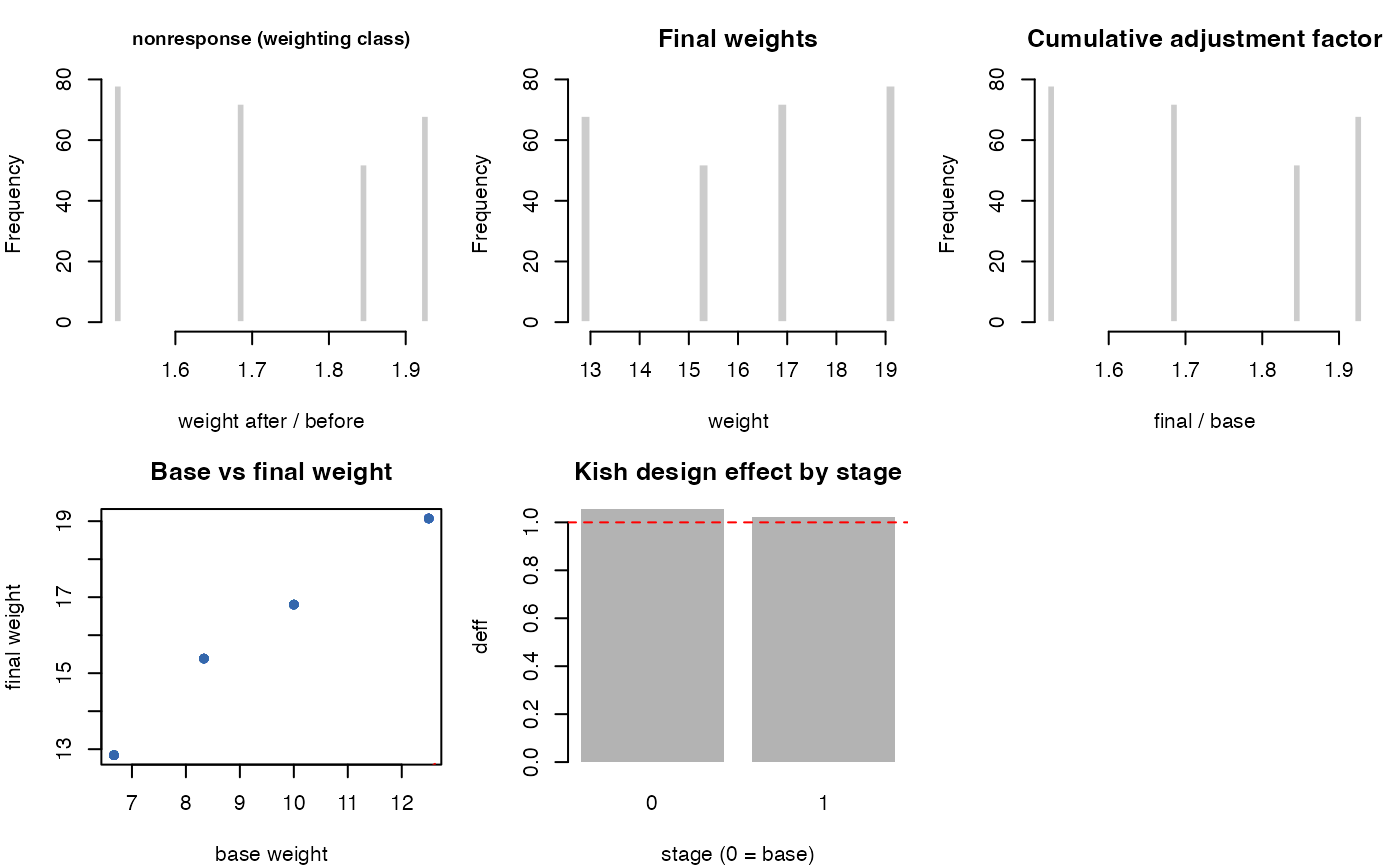
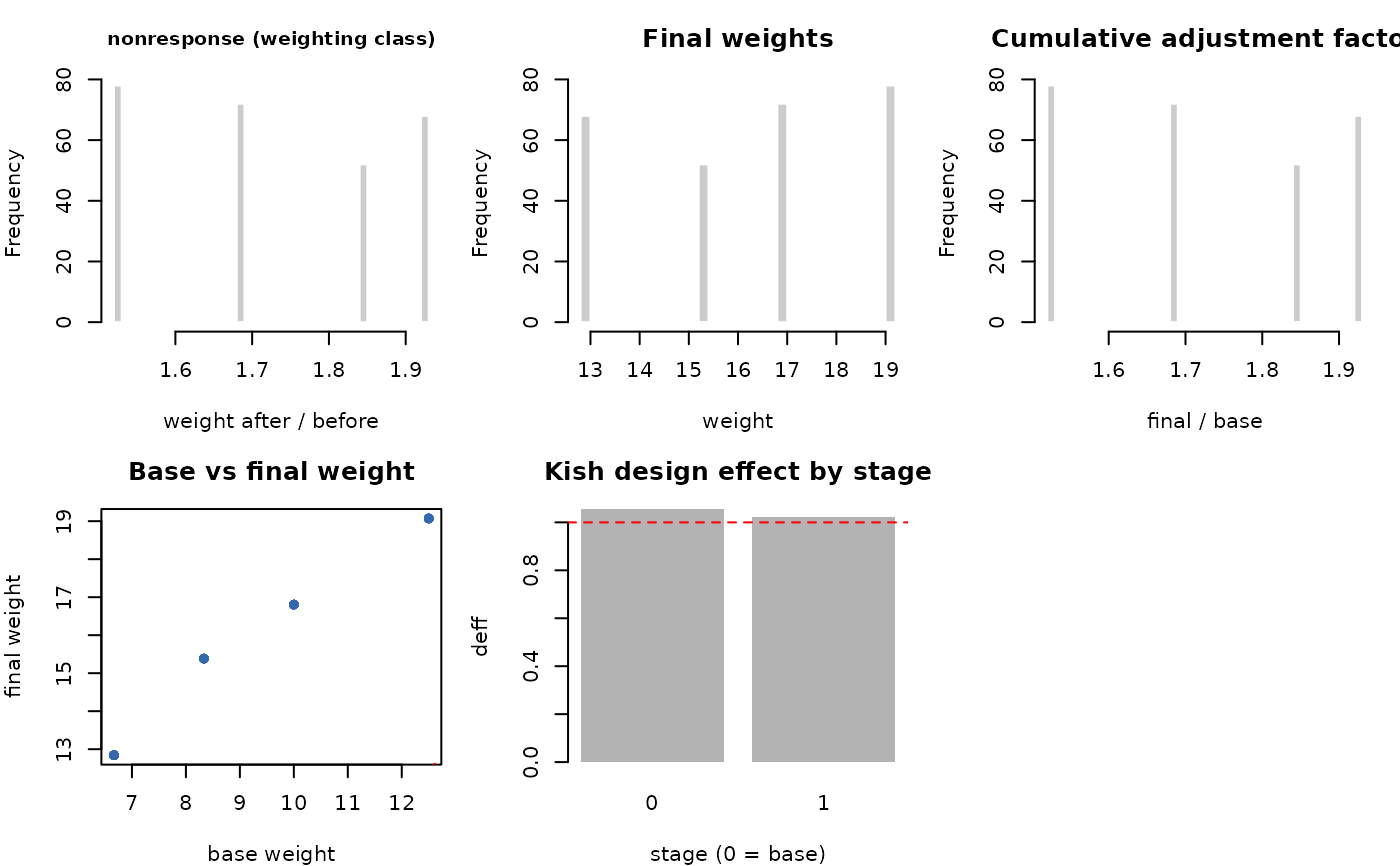
Deploying to gh-pages from @ jpferreira33/weightflow@0d763043653992a591d6867788d31cc4bb52c1d1 🚀

diff --git a/articles/variance-estimation.html b/articles/variance-estimation.html
@@ -1,5 +1,5 @@
 <!DOCTYPE html>
-<!-- Generated by pkgdown: do not edit by hand --><html lang="en">
+<!-- Generated by pkgdown: do not edit by hand --><html lang="en-US">
 <head>
 <meta http-equiv="Content-Type" content="text/html; charset=UTF-8">
 <meta charset="utf-8">
@@ -7,8 +7,8 @@
 <meta name="viewport" content="width=device-width, initial-scale=1, shrink-to-fit=no">
 <title>Variance estimation • weightflow</title>
 <script src="../deps/jquery-3.6.0/jquery-3.6.0.min.js"></script><meta name="viewport" content="width=device-width, initial-scale=1, shrink-to-fit=no">
-<link href="../deps/bootstrap-5.3.1/bootstrap.min.css" rel="stylesheet">
-<script src="../deps/bootstrap-5.3.1/bootstrap.bundle.min.js"></script><link href="../deps/font-awesome-6.5.2/css/all.min.css" rel="stylesheet">
+<link href="../deps/bootstrap-5.3.8/bootstrap.min.css" rel="stylesheet">
+<script src="../deps/bootstrap-5.3.8/bootstrap.bundle.min.js"></script><link href="../deps/font-awesome-6.5.2/css/all.min.css" rel="stylesheet">
 <link href="../deps/font-awesome-6.5.2/css/v4-shims.min.css" rel="stylesheet">
 <script src="../deps/headroom-0.11.0/headroom.min.js"></script><script src="../deps/headroom-0.11.0/jQuery.headroom.min.js"></script><script src="../deps/bootstrap-toc-1.0.1/bootstrap-toc.min.js"></script><script src="../deps/clipboard.js-2.0.11/clipboard.min.js"></script><script src="../deps/search-1.0.0/autocomplete.jquery.min.js"></script><script src="../deps/search-1.0.0/fuse.min.js"></script><script src="../deps/search-1.0.0/mark.min.js"></script><!-- pkgdown --><script src="../pkgdown.js"></script><meta property="og:title" content="Variance estimation">
 </head>
@@ -30,7 +30,7 @@
     <div id="navbar" class="collapse navbar-collapse ms-3">
       <ul class="navbar-nav me-auto">
 <li class="nav-item"><a class="nav-link" href="../reference/index.html">Reference</a></li>
-<li class="nav-item dropdown">
+<li class="active nav-item dropdown">
   <button class="nav-link dropdown-toggle" type="button" id="dropdown-articles" data-bs-toggle="dropdown" aria-expanded="false" aria-haspopup="true">Articles</button>
   <ul class="dropdown-menu" aria-labelledby="dropdown-articles">
 <li><a class="dropdown-item" href="../articles/variance-estimation.html">Variance estimation</a></li>
@@ -59,7 +59,7 @@
       <h1>Variance estimation</h1>
             
       
-      <small class="dont-index">Source: <a href="https://github.com/jpferreira33/weightflow/blob/HEAD/vignettes/variance-estimation.Rmd" class="external-link"><code>vignettes/variance-estimation.Rmd</code></a></small>
+      <small class="dont-index">Source: <a href="https://github.com/jpferreira33/weightflow/blob/master/vignettes/variance-estimation.Rmd" class="external-link"><code>vignettes/variance-estimation.Rmd</code></a></small>
       <div class="d-none name"><code>variance-estimation.Rmd</code></div>
     </div>
 

diff --git a/index.html b/index.html
@@ -1,5 +1,5 @@
 <!DOCTYPE html>
-<!-- Generated by pkgdown: do not edit by hand --><html lang="en">
+<!-- Generated by pkgdown: do not edit by hand --><html lang="en-US">
 <head>
 <meta http-equiv="Content-Type" content="text/html; charset=UTF-8">
 <meta charset="utf-8">
@@ -7,8 +7,8 @@
 <meta name="viewport" content="width=device-width, initial-scale=1, shrink-to-fit=no">
 <title>Declarative API for Staged Survey Weights • weightflow</title>
 <script src="deps/jquery-3.6.0/jquery-3.6.0.min.js"></script><meta name="viewport" content="width=device-width, initial-scale=1, shrink-to-fit=no">
-<link href="deps/bootstrap-5.3.1/bootstrap.min.css" rel="stylesheet">
-<script src="deps/bootstrap-5.3.1/bootstrap.bundle.min.js"></script><link href="deps/font-awesome-6.5.2/css/all.min.css" rel="stylesheet">
+<link href="deps/bootstrap-5.3.8/bootstrap.min.css" rel="stylesheet">
+<script src="deps/bootstrap-5.3.8/bootstrap.bundle.min.js"></script><link href="deps/font-awesome-6.5.2/css/all.min.css" rel="stylesheet">
 <link href="deps/font-awesome-6.5.2/css/v4-shims.min.css" rel="stylesheet">
 <script src="deps/headroom-0.11.0/headroom.min.js"></script><script src="deps/headroom-0.11.0/jQuery.headroom.min.js"></script><script src="deps/bootstrap-toc-1.0.1/bootstrap-toc.min.js"></script><script src="deps/clipboard.js-2.0.11/clipboard.min.js"></script><script src="deps/search-1.0.0/autocomplete.jquery.min.js"></script><script src="deps/search-1.0.0/fuse.min.js"></script><script src="deps/search-1.0.0/mark.min.js"></script><!-- pkgdown --><script src="pkgdown.js"></script><meta property="og:title" content="Declarative API for Staged Survey Weights">
 <meta name="description" content="Builds survey weights from design base weights by applying hierarchical adjustments (unknown eligibility, nonresponse and calibration) through a declarative, pipeable, tidymodels-style API. Variances are obtained with a bootstrap that resamples primary sampling units and re-applies the whole recipe on each replicate, so the replicate weights carry the variability of every adjustment; the weights also bridge to the survey and srvyr packages for design-based inference.">
@@ -64,7 +64,7 @@
 </h2>
 <div class="sourceCode" id="cb1"><pre class="downlit sourceCode r">
 <code class="sourceCode R"><span><span class="co"># install.packages("remotes")</span></span>
-<span><span class="fu">remotes</span><span class="fu">::</span><span class="fu"><a href="https://remotes.r-lib.org/reference/install_github.html" class="external-link">install_github</a></span><span class="op">(</span><span class="st">"jpferreira33/weightflow"</span><span class="op">)</span></span></code></pre></div>
+<span><span class="fu">remotes</span><span class="fu">::</span><span class="fu">install_github</span><span class="op">(</span><span class="st">"jpferreira33/weightflow"</span><span class="op">)</span></span></code></pre></div>
 </div>
 <div class="section level2">
 <h2 id="the-idea">The idea<a class="anchor" aria-label="anchor" href="#the-idea"></a>

diff --git a/404.html b/404.html
@@ -1,5 +1,5 @@
 <!DOCTYPE html>
-<!-- Generated by pkgdown: do not edit by hand --><html lang="en">
+<!-- Generated by pkgdown: do not edit by hand --><html lang="en-US">
 <head>
 <meta http-equiv="Content-Type" content="text/html; charset=UTF-8">
 <meta charset="utf-8">
@@ -7,8 +7,8 @@
 <meta name="viewport" content="width=device-width, initial-scale=1, shrink-to-fit=no">
 <title>Page not found (404) • weightflow</title>
 <script src="https://jpferreira33.github.io/weightflow/deps/jquery-3.6.0/jquery-3.6.0.min.js"></script><meta name="viewport" content="width=device-width, initial-scale=1, shrink-to-fit=no">
-<link href="https://jpferreira33.github.io/weightflow/deps/bootstrap-5.3.1/bootstrap.min.css" rel="stylesheet">
-<script src="https://jpferreira33.github.io/weightflow/deps/bootstrap-5.3.1/bootstrap.bundle.min.js"></script><link href="https://jpferreira33.github.io/weightflow/deps/font-awesome-6.5.2/css/all.min.css" rel="stylesheet">
+<link href="https://jpferreira33.github.io/weightflow/deps/bootstrap-5.3.8/bootstrap.min.css" rel="stylesheet">
+<script src="https://jpferreira33.github.io/weightflow/deps/bootstrap-5.3.8/bootstrap.bundle.min.js"></script><link href="https://jpferreira33.github.io/weightflow/deps/font-awesome-6.5.2/css/all.min.css" rel="stylesheet">
 <link href="https://jpferreira33.github.io/weightflow/deps/font-awesome-6.5.2/css/v4-shims.min.css" rel="stylesheet">
 <script src="https://jpferreira33.github.io/weightflow/deps/headroom-0.11.0/headroom.min.js"></script><script src="https://jpferreira33.github.io/weightflow/deps/headroom-0.11.0/jQuery.headroom.min.js"></script><script src="https://jpferreira33.github.io/weightflow/deps/bootstrap-toc-1.0.1/bootstrap-toc.min.js"></script><script src="https://jpferreira33.github.io/weightflow/deps/clipboard.js-2.0.11/clipboard.min.js"></script><script src="https://jpferreira33.github.io/weightflow/deps/search-1.0.0/autocomplete.jquery.min.js"></script><script src="https://jpferreira33.github.io/weightflow/deps/search-1.0.0/fuse.min.js"></script><script src="https://jpferreira33.github.io/weightflow/deps/search-1.0.0/mark.min.js"></script><!-- pkgdown --><script src="https://jpferreira33.github.io/weightflow/pkgdown.js"></script><meta property="og:title" content="Page not found (404)">
 </head>

diff --git a/reference/y_model.html b/reference/y_model.html
@@ -1,5 +1,5 @@
 <!DOCTYPE html>
-<!-- Generated by pkgdown: do not edit by hand --><html lang="en"><head><meta http-equiv="Content-Type" content="text/html; charset=UTF-8"><meta charset="utf-8"><meta http-equiv="X-UA-Compatible" content="IE=edge"><meta name="viewport" content="width=device-width, initial-scale=1, shrink-to-fit=no"><title>Specify a working model for a study variable y — y_model • weightflow</title><script src="../deps/jquery-3.6.0/jquery-3.6.0.min.js"></script><meta name="viewport" content="width=device-width, initial-scale=1, shrink-to-fit=no"><link href="../deps/bootstrap-5.3.1/bootstrap.min.css" rel="stylesheet"><script src="../deps/bootstrap-5.3.1/bootstrap.bundle.min.js"></script><link href="../deps/font-awesome-6.5.2/css/all.min.css" rel="stylesheet"><link href="../deps/font-awesome-6.5.2/css/v4-shims.min.css" rel="stylesheet"><script src="../deps/headroom-0.11.0/headroom.min.js"></script><script src="../deps/headroom-0.11.0/jQuery.headroom.min.js"></script><script src="../deps/bootstrap-toc-1.0.1/bootstrap-toc.min.js"></script><script src="../deps/clipboard.js-2.0.11/clipboard.min.js"></script><script src="../deps/search-1.0.0/autocomplete.jquery.min.js"></script><script src="../deps/search-1.0.0/fuse.min.js"></script><script src="../deps/search-1.0.0/mark.min.js"></script><!-- pkgdown --><script src="../pkgdown.js"></script><meta property="og:title" content="Specify a working model for a study variable y — y_model"><meta name="description" content="Specify a working model for a study variable y"><meta property="og:description" content="Specify a working model for a study variable y"></head><body>
+<!-- Generated by pkgdown: do not edit by hand --><html lang="en-US"><head><meta http-equiv="Content-Type" content="text/html; charset=UTF-8"><meta charset="utf-8"><meta http-equiv="X-UA-Compatible" content="IE=edge"><meta name="viewport" content="width=device-width, initial-scale=1, shrink-to-fit=no"><title>Specify a working model for a study variable y — y_model • weightflow</title><script src="../deps/jquery-3.6.0/jquery-3.6.0.min.js"></script><meta name="viewport" content="width=device-width, initial-scale=1, shrink-to-fit=no"><link href="../deps/bootstrap-5.3.8/bootstrap.min.css" rel="stylesheet"><script src="../deps/bootstrap-5.3.8/bootstrap.bundle.min.js"></script><link href="../deps/font-awesome-6.5.2/css/all.min.css" rel="stylesheet"><link href="../deps/font-awesome-6.5.2/css/v4-shims.min.css" rel="stylesheet"><script src="../deps/headroom-0.11.0/headroom.min.js"></script><script src="../deps/headroom-0.11.0/jQuery.headroom.min.js"></script><script src="../deps/bootstrap-toc-1.0.1/bootstrap-toc.min.js"></script><script src="../deps/clipboard.js-2.0.11/clipboard.min.js"></script><script src="../deps/search-1.0.0/autocomplete.jquery.min.js"></script><script src="../deps/search-1.0.0/fuse.min.js"></script><script src="../deps/search-1.0.0/mark.min.js"></script><!-- pkgdown --><script src="../pkgdown.js"></script><meta property="og:title" content="Specify a working model for a study variable y — y_model"><meta name="description" content="Specify a working model for a study variable y"><meta property="og:description" content="Specify a working model for a study variable y"></head><body>
     <a href="#main" class="visually-hidden-focusable">Skip to contents</a>
 
 
@@ -33,7 +33,7 @@
   <main id="main" class="col-md-9"><div class="page-header">
 
       <h1>Specify a working model for a study variable y</h1>
-      <small class="dont-index">Source: <a href="https://github.com/jpferreira33/weightflow/blob/HEAD/R/spec.R" class="external-link"><code>R/spec.R</code></a></small>
+      <small class="dont-index">Source: <a href="https://github.com/jpferreira33/weightflow/blob/master/R/spec.R" class="external-link"><code>R/spec.R</code></a></small>
       <div class="d-none name"><code>y_model.Rd</code></div>
     </div>
 
@@ -73,7 +73,7 @@ For tree/forest, regression vs classification is inferred from y.</p></dd>
     <div class="sourceCode"><pre class="sourceCode r"><code><span class="r-in"><span><span class="fu">y_model</span><span class="op">(</span><span class="va">income</span> <span class="op">~</span> <span class="va">age</span> <span class="op">+</span> <span class="va">sex</span>, engine <span class="op">=</span> <span class="st">"glm"</span><span class="op">)</span></span></span>
 <span class="r-out co"><span class="r-pr">#&gt;</span> $formula</span>
 <span class="r-out co"><span class="r-pr">#&gt;</span> income ~ age + sex</span>
-<span class="r-out co"><span class="r-pr">#&gt;</span> &lt;environment: 0x9cefff268&gt;</span>
+<span class="r-out co"><span class="r-pr">#&gt;</span> &lt;environment: 0x5582c775ebd8&gt;</span>
 <span class="r-out co"><span class="r-pr">#&gt;</span> </span>
 <span class="r-out co"><span class="r-pr">#&gt;</span> $engine</span>
 <span class="r-out co"><span class="r-pr">#&gt;</span> [1] "glm"</span>

diff --git a/authors.html b/authors.html
@@ -1,5 +1,5 @@
 <!DOCTYPE html>
-<!-- Generated by pkgdown: do not edit by hand --><html lang="en"><head><meta http-equiv="Content-Type" content="text/html; charset=UTF-8"><meta charset="utf-8"><meta http-equiv="X-UA-Compatible" content="IE=edge"><meta name="viewport" content="width=device-width, initial-scale=1, shrink-to-fit=no"><title>Authors and Citation • weightflow</title><script src="deps/jquery-3.6.0/jquery-3.6.0.min.js"></script><meta name="viewport" content="width=device-width, initial-scale=1, shrink-to-fit=no"><link href="deps/bootstrap-5.3.1/bootstrap.min.css" rel="stylesheet"><script src="deps/bootstrap-5.3.1/bootstrap.bundle.min.js"></script><link href="deps/font-awesome-6.5.2/css/all.min.css" rel="stylesheet"><link href="deps/font-awesome-6.5.2/css/v4-shims.min.css" rel="stylesheet"><script src="deps/headroom-0.11.0/headroom.min.js"></script><script src="deps/headroom-0.11.0/jQuery.headroom.min.js"></script><script src="deps/bootstrap-toc-1.0.1/bootstrap-toc.min.js"></script><script src="deps/clipboard.js-2.0.11/clipboard.min.js"></script><script src="deps/search-1.0.0/autocomplete.jquery.min.js"></script><script src="deps/search-1.0.0/fuse.min.js"></script><script src="deps/search-1.0.0/mark.min.js"></script><!-- pkgdown --><script src="pkgdown.js"></script><meta property="og:title" content="Authors and Citation"></head><body>
+<!-- Generated by pkgdown: do not edit by hand --><html lang="en-US"><head><meta http-equiv="Content-Type" content="text/html; charset=UTF-8"><meta charset="utf-8"><meta http-equiv="X-UA-Compatible" content="IE=edge"><meta name="viewport" content="width=device-width, initial-scale=1, shrink-to-fit=no"><title>Authors and Citation • weightflow</title><script src="deps/jquery-3.6.0/jquery-3.6.0.min.js"></script><meta name="viewport" content="width=device-width, initial-scale=1, shrink-to-fit=no"><link href="deps/bootstrap-5.3.8/bootstrap.min.css" rel="stylesheet"><script src="deps/bootstrap-5.3.8/bootstrap.bundle.min.js"></script><link href="deps/font-awesome-6.5.2/css/all.min.css" rel="stylesheet"><link href="deps/font-awesome-6.5.2/css/v4-shims.min.css" rel="stylesheet"><script src="deps/headroom-0.11.0/headroom.min.js"></script><script src="deps/headroom-0.11.0/jQuery.headroom.min.js"></script><script src="deps/bootstrap-toc-1.0.1/bootstrap-toc.min.js"></script><script src="deps/clipboard.js-2.0.11/clipboard.min.js"></script><script src="deps/search-1.0.0/autocomplete.jquery.min.js"></script><script src="deps/search-1.0.0/fuse.min.js"></script><script src="deps/search-1.0.0/mark.min.js"></script><!-- pkgdown --><script src="pkgdown.js"></script><meta property="og:title" content="Authors and Citation"></head><body>
     <a href="#main" class="visually-hidden-focusable">Skip to contents</a>
 
 
@@ -46,7 +46,7 @@
 
     <div class="section level2">
       <h2 id="citation">Citation</h2>
-      <p><small class="dont-index">Source: <a href="https://github.com/jpferreira33/weightflow/blob/HEAD/DESCRIPTION" class="external-link"><code>DESCRIPTION</code></a></small></p>
+      <p><small class="dont-index">Source: <a href="https://github.com/jpferreira33/weightflow/blob/master/DESCRIPTION" class="external-link"><code>DESCRIPTION</code></a></small></p>
 
       <p>Ferreira J (2026).
 <em>weightflow: Declarative API for Staged Survey Weights</em>.

diff --git a/news/index.html b/news/index.html
@@ -1,5 +1,5 @@
 <!DOCTYPE html>
-<!-- Generated by pkgdown: do not edit by hand --><html lang="en"><head><meta http-equiv="Content-Type" content="text/html; charset=UTF-8"><meta charset="utf-8"><meta http-equiv="X-UA-Compatible" content="IE=edge"><meta name="viewport" content="width=device-width, initial-scale=1, shrink-to-fit=no"><title>Changelog • weightflow</title><script src="../deps/jquery-3.6.0/jquery-3.6.0.min.js"></script><meta name="viewport" content="width=device-width, initial-scale=1, shrink-to-fit=no"><link href="../deps/bootstrap-5.3.1/bootstrap.min.css" rel="stylesheet"><script src="../deps/bootstrap-5.3.1/bootstrap.bundle.min.js"></script><link href="../deps/font-awesome-6.5.2/css/all.min.css" rel="stylesheet"><link href="../deps/font-awesome-6.5.2/css/v4-shims.min.css" rel="stylesheet"><script src="../deps/headroom-0.11.0/headroom.min.js"></script><script src="../deps/headroom-0.11.0/jQuery.headroom.min.js"></script><script src="../deps/bootstrap-toc-1.0.1/bootstrap-toc.min.js"></script><script src="../deps/clipboard.js-2.0.11/clipboard.min.js"></script><script src="../deps/search-1.0.0/autocomplete.jquery.min.js"></script><script src="../deps/search-1.0.0/fuse.min.js"></script><script src="../deps/search-1.0.0/mark.min.js"></script><!-- pkgdown --><script src="../pkgdown.js"></script><meta property="og:title" content="Changelog"></head><body>
+<!-- Generated by pkgdown: do not edit by hand --><html lang="en-US"><head><meta http-equiv="Content-Type" content="text/html; charset=UTF-8"><meta charset="utf-8"><meta http-equiv="X-UA-Compatible" content="IE=edge"><meta name="viewport" content="width=device-width, initial-scale=1, shrink-to-fit=no"><title>Changelog • weightflow</title><script src="../deps/jquery-3.6.0/jquery-3.6.0.min.js"></script><meta name="viewport" content="width=device-width, initial-scale=1, shrink-to-fit=no"><link href="../deps/bootstrap-5.3.8/bootstrap.min.css" rel="stylesheet"><script src="../deps/bootstrap-5.3.8/bootstrap.bundle.min.js"></script><link href="../deps/font-awesome-6.5.2/css/all.min.css" rel="stylesheet"><link href="../deps/font-awesome-6.5.2/css/v4-shims.min.css" rel="stylesheet"><script src="../deps/headroom-0.11.0/headroom.min.js"></script><script src="../deps/headroom-0.11.0/jQuery.headroom.min.js"></script><script src="../deps/bootstrap-toc-1.0.1/bootstrap-toc.min.js"></script><script src="../deps/clipboard.js-2.0.11/clipboard.min.js"></script><script src="../deps/search-1.0.0/autocomplete.jquery.min.js"></script><script src="../deps/search-1.0.0/fuse.min.js"></script><script src="../deps/search-1.0.0/mark.min.js"></script><!-- pkgdown --><script src="../pkgdown.js"></script><meta property="og:title" content="Changelog"></head><body>
     <a href="#main" class="visually-hidden-focusable">Skip to contents</a>
 
 
@@ -33,7 +33,7 @@
   <main id="main" class="col-md-9"><div class="page-header">
 
       <h1>Changelog</h1>
-      <small>Source: <a href="https://github.com/jpferreira33/weightflow/blob/HEAD/NEWS.md" class="external-link"><code>NEWS.md</code></a></small>
+      <small>Source: <a href="https://github.com/jpferreira33/weightflow/blob/master/NEWS.md" class="external-link"><code>NEWS.md</code></a></small>
     </div>
 
     <div class="section level2">

diff --git a/reference/as_svydesign.html b/reference/as_svydesign.html
@@ -1,5 +1,5 @@
 <!DOCTYPE html>
-<!-- Generated by pkgdown: do not edit by hand --><html lang="en"><head><meta http-equiv="Content-Type" content="text/html; charset=UTF-8"><meta charset="utf-8"><meta http-equiv="X-UA-Compatible" content="IE=edge"><meta name="viewport" content="width=device-width, initial-scale=1, shrink-to-fit=no"><title>Export weightflow weights to a survey design — as_svydesign • weightflow</title><script src="../deps/jquery-3.6.0/jquery-3.6.0.min.js"></script><meta name="viewport" content="width=device-width, initial-scale=1, shrink-to-fit=no"><link href="../deps/bootstrap-5.3.1/bootstrap.min.css" rel="stylesheet"><script src="../deps/bootstrap-5.3.1/bootstrap.bundle.min.js"></script><link href="../deps/font-awesome-6.5.2/css/all.min.css" rel="stylesheet"><link href="../deps/font-awesome-6.5.2/css/v4-shims.min.css" rel="stylesheet"><script src="../deps/headroom-0.11.0/headroom.min.js"></script><script src="../deps/headroom-0.11.0/jQuery.headroom.min.js"></script><script src="../deps/bootstrap-toc-1.0.1/bootstrap-toc.min.js"></script><script src="../deps/clipboard.js-2.0.11/clipboard.min.js"></script><script src="../deps/search-1.0.0/autocomplete.jquery.min.js"></script><script src="../deps/search-1.0.0/fuse.min.js"></script><script src="../deps/search-1.0.0/mark.min.js"></script><!-- pkgdown --><script src="../pkgdown.js"></script><meta property="og:title" content="Export weightflow weights to a survey design — as_svydesign"><meta name="description" content="as_svydesign() builds a linearization (ultimate-cluster) design from a
+<!-- Generated by pkgdown: do not edit by hand --><html lang="en-US"><head><meta http-equiv="Content-Type" content="text/html; charset=UTF-8"><meta charset="utf-8"><meta http-equiv="X-UA-Compatible" content="IE=edge"><meta name="viewport" content="width=device-width, initial-scale=1, shrink-to-fit=no"><title>Export weightflow weights to a survey design — as_svydesign • weightflow</title><script src="../deps/jquery-3.6.0/jquery-3.6.0.min.js"></script><meta name="viewport" content="width=device-width, initial-scale=1, shrink-to-fit=no"><link href="../deps/bootstrap-5.3.8/bootstrap.min.css" rel="stylesheet"><script src="../deps/bootstrap-5.3.8/bootstrap.bundle.min.js"></script><link href="../deps/font-awesome-6.5.2/css/all.min.css" rel="stylesheet"><link href="../deps/font-awesome-6.5.2/css/v4-shims.min.css" rel="stylesheet"><script src="../deps/headroom-0.11.0/headroom.min.js"></script><script src="../deps/headroom-0.11.0/jQuery.headroom.min.js"></script><script src="../deps/bootstrap-toc-1.0.1/bootstrap-toc.min.js"></script><script src="../deps/clipboard.js-2.0.11/clipboard.min.js"></script><script src="../deps/search-1.0.0/autocomplete.jquery.min.js"></script><script src="../deps/search-1.0.0/fuse.min.js"></script><script src="../deps/search-1.0.0/mark.min.js"></script><!-- pkgdown --><script src="../pkgdown.js"></script><meta property="og:title" content="Export weightflow weights to a survey design — as_svydesign"><meta name="description" content="as_svydesign() builds a linearization (ultimate-cluster) design from a
 prepped recipe; as_svrepdesign() builds a replicate-weights design from a
 bootstrap object, so survey/srvyr standard errors include the recipe's
 adjustments. Both require the 'survey' package."><meta property="og:description" content="as_svydesign() builds a linearization (ultimate-cluster) design from a
@@ -39,7 +39,7 @@ adjustments. Both require the 'survey' package."></head><body>
   <main id="main" class="col-md-9"><div class="page-header">
 
       <h1>Export weightflow weights to a survey design</h1>
-      <small class="dont-index">Source: <a href="https://github.com/jpferreira33/weightflow/blob/HEAD/R/variance.R" class="external-link"><code>R/variance.R</code></a></small>
+      <small class="dont-index">Source: <a href="https://github.com/jpferreira33/weightflow/blob/master/R/variance.R" class="external-link"><code>R/variance.R</code></a></small>
       <div class="d-none name"><code>as_svydesign.Rd</code></div>
     </div>
 

diff --git a/reference/bootstrap_estimate.html b/reference/bootstrap_estimate.html
@@ -1,5 +1,5 @@
 <!DOCTYPE html>
-<!-- Generated by pkgdown: do not edit by hand --><html lang="en"><head><meta http-equiv="Content-Type" content="text/html; charset=UTF-8"><meta charset="utf-8"><meta http-equiv="X-UA-Compatible" content="IE=edge"><meta name="viewport" content="width=device-width, initial-scale=1, shrink-to-fit=no"><title>Bootstrap estimate, standard error and confidence interval — bootstrap_estimate • weightflow</title><script src="../deps/jquery-3.6.0/jquery-3.6.0.min.js"></script><meta name="viewport" content="width=device-width, initial-scale=1, shrink-to-fit=no"><link href="../deps/bootstrap-5.3.1/bootstrap.min.css" rel="stylesheet"><script src="../deps/bootstrap-5.3.1/bootstrap.bundle.min.js"></script><link href="../deps/font-awesome-6.5.2/css/all.min.css" rel="stylesheet"><link href="../deps/font-awesome-6.5.2/css/v4-shims.min.css" rel="stylesheet"><script src="../deps/headroom-0.11.0/headroom.min.js"></script><script src="../deps/headroom-0.11.0/jQuery.headroom.min.js"></script><script src="../deps/bootstrap-toc-1.0.1/bootstrap-toc.min.js"></script><script src="../deps/clipboard.js-2.0.11/clipboard.min.js"></script><script src="../deps/search-1.0.0/autocomplete.jquery.min.js"></script><script src="../deps/search-1.0.0/fuse.min.js"></script><script src="../deps/search-1.0.0/mark.min.js"></script><!-- pkgdown --><script src="../pkgdown.js"></script><meta property="og:title" content="Bootstrap estimate, standard error and confidence interval — bootstrap_estimate"><meta name="description" content="Applies a statistic to the point weights and to every replicate, and
+<!-- Generated by pkgdown: do not edit by hand --><html lang="en-US"><head><meta http-equiv="Content-Type" content="text/html; charset=UTF-8"><meta charset="utf-8"><meta http-equiv="X-UA-Compatible" content="IE=edge"><meta name="viewport" content="width=device-width, initial-scale=1, shrink-to-fit=no"><title>Bootstrap estimate, standard error and confidence interval — bootstrap_estimate • weightflow</title><script src="../deps/jquery-3.6.0/jquery-3.6.0.min.js"></script><meta name="viewport" content="width=device-width, initial-scale=1, shrink-to-fit=no"><link href="../deps/bootstrap-5.3.8/bootstrap.min.css" rel="stylesheet"><script src="../deps/bootstrap-5.3.8/bootstrap.bundle.min.js"></script><link href="../deps/font-awesome-6.5.2/css/all.min.css" rel="stylesheet"><link href="../deps/font-awesome-6.5.2/css/v4-shims.min.css" rel="stylesheet"><script src="../deps/headroom-0.11.0/headroom.min.js"></script><script src="../deps/headroom-0.11.0/jQuery.headroom.min.js"></script><script src="../deps/bootstrap-toc-1.0.1/bootstrap-toc.min.js"></script><script src="../deps/clipboard.js-2.0.11/clipboard.min.js"></script><script src="../deps/search-1.0.0/autocomplete.jquery.min.js"></script><script src="../deps/search-1.0.0/fuse.min.js"></script><script src="../deps/search-1.0.0/mark.min.js"></script><!-- pkgdown --><script src="../pkgdown.js"></script><meta property="og:title" content="Bootstrap estimate, standard error and confidence interval — bootstrap_estimate"><meta name="description" content="Applies a statistic to the point weights and to every replicate, and
 summarises it with the bootstrap variance \((1/B)\sum(\theta^*_b -
 \hat\theta)^2\)."><meta property="og:description" content="Applies a statistic to the point weights and to every replicate, and
 summarises it with the bootstrap variance \((1/B)\sum(\theta^*_b -
@@ -37,7 +37,7 @@ summarises it with the bootstrap variance \((1/B)\sum(\theta^*_b -
   <main id="main" class="col-md-9"><div class="page-header">
 
       <h1>Bootstrap estimate, standard error and confidence interval</h1>
-      <small class="dont-index">Source: <a href="https://github.com/jpferreira33/weightflow/blob/HEAD/R/variance.R" class="external-link"><code>R/variance.R</code></a></small>
+      <small class="dont-index">Source: <a href="https://github.com/jpferreira33/weightflow/blob/master/R/variance.R" class="external-link"><code>R/variance.R</code></a></small>
       <div class="d-none name"><code>bootstrap_estimate.Rd</code></div>
     </div>
 

diff --git a/reference/bootstrap_weights.html b/reference/bootstrap_weights.html
@@ -1,5 +1,5 @@
 <!DOCTYPE html>
-<!-- Generated by pkgdown: do not edit by hand --><html lang="en"><head><meta http-equiv="Content-Type" content="text/html; charset=UTF-8"><meta charset="utf-8"><meta http-equiv="X-UA-Compatible" content="IE=edge"><meta name="viewport" content="width=device-width, initial-scale=1, shrink-to-fit=no"><title>Bootstrap replicate weights that re-apply the recipe — bootstrap_weights • weightflow</title><script src="../deps/jquery-3.6.0/jquery-3.6.0.min.js"></script><meta name="viewport" content="width=device-width, initial-scale=1, shrink-to-fit=no"><link href="../deps/bootstrap-5.3.1/bootstrap.min.css" rel="stylesheet"><script src="../deps/bootstrap-5.3.1/bootstrap.bundle.min.js"></script><link href="../deps/font-awesome-6.5.2/css/all.min.css" rel="stylesheet"><link href="../deps/font-awesome-6.5.2/css/v4-shims.min.css" rel="stylesheet"><script src="../deps/headroom-0.11.0/headroom.min.js"></script><script src="../deps/headroom-0.11.0/jQuery.headroom.min.js"></script><script src="../deps/bootstrap-toc-1.0.1/bootstrap-toc.min.js"></script><script src="../deps/clipboard.js-2.0.11/clipboard.min.js"></script><script src="../deps/search-1.0.0/autocomplete.jquery.min.js"></script><script src="../deps/search-1.0.0/fuse.min.js"></script><script src="../deps/search-1.0.0/mark.min.js"></script><!-- pkgdown --><script src="../pkgdown.js"></script><meta property="og:title" content="Bootstrap replicate weights that re-apply the recipe — bootstrap_weights"><meta name="description" content="Builds bootstrap replicate weights by resampling primary sampling units
+<!-- Generated by pkgdown: do not edit by hand --><html lang="en-US"><head><meta http-equiv="Content-Type" content="text/html; charset=UTF-8"><meta charset="utf-8"><meta http-equiv="X-UA-Compatible" content="IE=edge"><meta name="viewport" content="width=device-width, initial-scale=1, shrink-to-fit=no"><title>Bootstrap replicate weights that re-apply the recipe — bootstrap_weights • weightflow</title><script src="../deps/jquery-3.6.0/jquery-3.6.0.min.js"></script><meta name="viewport" content="width=device-width, initial-scale=1, shrink-to-fit=no"><link href="../deps/bootstrap-5.3.8/bootstrap.min.css" rel="stylesheet"><script src="../deps/bootstrap-5.3.8/bootstrap.bundle.min.js"></script><link href="../deps/font-awesome-6.5.2/css/all.min.css" rel="stylesheet"><link href="../deps/font-awesome-6.5.2/css/v4-shims.min.css" rel="stylesheet"><script src="../deps/headroom-0.11.0/headroom.min.js"></script><script src="../deps/headroom-0.11.0/jQuery.headroom.min.js"></script><script src="../deps/bootstrap-toc-1.0.1/bootstrap-toc.min.js"></script><script src="../deps/clipboard.js-2.0.11/clipboard.min.js"></script><script src="../deps/search-1.0.0/autocomplete.jquery.min.js"></script><script src="../deps/search-1.0.0/fuse.min.js"></script><script src="../deps/search-1.0.0/mark.min.js"></script><!-- pkgdown --><script src="../pkgdown.js"></script><meta property="og:title" content="Bootstrap replicate weights that re-apply the recipe — bootstrap_weights"><meta name="description" content="Builds bootstrap replicate weights by resampling primary sampling units
 (PSUs) with replacement within strata and re-running the whole recipe on
 each replicate. Because every adjustment (nonresponse, calibration, ...) is
 recomputed per replicate, the resulting replicate weights propagate the
@@ -41,7 +41,7 @@ variability introduced by each weighting stage."></head><body>
   <main id="main" class="col-md-9"><div class="page-header">
 
       <h1>Bootstrap replicate weights that re-apply the recipe</h1>
-      <small class="dont-index">Source: <a href="https://github.com/jpferreira33/weightflow/blob/HEAD/R/variance.R" class="external-link"><code>R/variance.R</code></a></small>
+      <small class="dont-index">Source: <a href="https://github.com/jpferreira33/weightflow/blob/master/R/variance.R" class="external-link"><code>R/variance.R</code></a></small>
       <div class="d-none name"><code>bootstrap_weights.Rd</code></div>
     </div>
 

diff --git a/reference/collect_replicate_weights.html b/reference/collect_replicate_weights.html
@@ -1,5 +1,5 @@
 <!DOCTYPE html>
-<!-- Generated by pkgdown: do not edit by hand --><html lang="en"><head><meta http-equiv="Content-Type" content="text/html; charset=UTF-8"><meta charset="utf-8"><meta http-equiv="X-UA-Compatible" content="IE=edge"><meta name="viewport" content="width=device-width, initial-scale=1, shrink-to-fit=no"><title>Collect replicate weights into a data frame ready for srvyr — collect_replicate_weights • weightflow</title><script src="../deps/jquery-3.6.0/jquery-3.6.0.min.js"></script><meta name="viewport" content="width=device-width, initial-scale=1, shrink-to-fit=no"><link href="../deps/bootstrap-5.3.1/bootstrap.min.css" rel="stylesheet"><script src="../deps/bootstrap-5.3.1/bootstrap.bundle.min.js"></script><link href="../deps/font-awesome-6.5.2/css/all.min.css" rel="stylesheet"><link href="../deps/font-awesome-6.5.2/css/v4-shims.min.css" rel="stylesheet"><script src="../deps/headroom-0.11.0/headroom.min.js"></script><script src="../deps/headroom-0.11.0/jQuery.headroom.min.js"></script><script src="../deps/bootstrap-toc-1.0.1/bootstrap-toc.min.js"></script><script src="../deps/clipboard.js-2.0.11/clipboard.min.js"></script><script src="../deps/search-1.0.0/autocomplete.jquery.min.js"></script><script src="../deps/search-1.0.0/fuse.min.js"></script><script src="../deps/search-1.0.0/mark.min.js"></script><!-- pkgdown --><script src="../pkgdown.js"></script><meta property="og:title" content="Collect replicate weights into a data frame ready for srvyr — collect_replicate_weights"><meta name="description" content="Returns the data with the point weight and the bootstrap replicate weights
+<!-- Generated by pkgdown: do not edit by hand --><html lang="en-US"><head><meta http-equiv="Content-Type" content="text/html; charset=UTF-8"><meta charset="utf-8"><meta http-equiv="X-UA-Compatible" content="IE=edge"><meta name="viewport" content="width=device-width, initial-scale=1, shrink-to-fit=no"><title>Collect replicate weights into a data frame ready for srvyr — collect_replicate_weights • weightflow</title><script src="../deps/jquery-3.6.0/jquery-3.6.0.min.js"></script><meta name="viewport" content="width=device-width, initial-scale=1, shrink-to-fit=no"><link href="../deps/bootstrap-5.3.8/bootstrap.min.css" rel="stylesheet"><script src="../deps/bootstrap-5.3.8/bootstrap.bundle.min.js"></script><link href="../deps/font-awesome-6.5.2/css/all.min.css" rel="stylesheet"><link href="../deps/font-awesome-6.5.2/css/v4-shims.min.css" rel="stylesheet"><script src="../deps/headroom-0.11.0/headroom.min.js"></script><script src="../deps/headroom-0.11.0/jQuery.headroom.min.js"></script><script src="../deps/bootstrap-toc-1.0.1/bootstrap-toc.min.js"></script><script src="../deps/clipboard.js-2.0.11/clipboard.min.js"></script><script src="../deps/search-1.0.0/autocomplete.jquery.min.js"></script><script src="../deps/search-1.0.0/fuse.min.js"></script><script src="../deps/search-1.0.0/mark.min.js"></script><!-- pkgdown --><script src="../pkgdown.js"></script><meta property="og:title" content="Collect replicate weights into a data frame ready for srvyr — collect_replicate_weights"><meta name="description" content="Returns the data with the point weight and the bootstrap replicate weights
 as columns, so it can be fed directly to srvyr::as_survey_rep() (or
 survey::svrepdesign()). Replicate columns are full weights, so use
 combined.weights = TRUE, scale = 1 / R, rscales = 1, mse = TRUE."><meta property="og:description" content="Returns the data with the point weight and the bootstrap replicate weights
@@ -39,7 +39,7 @@ combined.weights = TRUE, scale = 1 / R, rscales = 1, mse = TRUE."></head><body>
   <main id="main" class="col-md-9"><div class="page-header">
 
       <h1>Collect replicate weights into a data frame ready for srvyr</h1>
-      <small class="dont-index">Source: <a href="https://github.com/jpferreira33/weightflow/blob/HEAD/R/variance.R" class="external-link"><code>R/variance.R</code></a></small>
+      <small class="dont-index">Source: <a href="https://github.com/jpferreira33/weightflow/blob/master/R/variance.R" class="external-link"><code>R/variance.R</code></a></small>
       <div class="d-none name"><code>collect_replicate_weights.Rd</code></div>
     </div>
 

diff --git a/reference/collect_weights.html b/reference/collect_weights.html
@@ -1,5 +1,5 @@
 <!DOCTYPE html>
-<!-- Generated by pkgdown: do not edit by hand --><html lang="en"><head><meta http-equiv="Content-Type" content="text/html; charset=UTF-8"><meta charset="utf-8"><meta http-equiv="X-UA-Compatible" content="IE=edge"><meta name="viewport" content="width=device-width, initial-scale=1, shrink-to-fit=no"><title>Extract the data with the computed weights — collect_weights • weightflow</title><script src="../deps/jquery-3.6.0/jquery-3.6.0.min.js"></script><meta name="viewport" content="width=device-width, initial-scale=1, shrink-to-fit=no"><link href="../deps/bootstrap-5.3.1/bootstrap.min.css" rel="stylesheet"><script src="../deps/bootstrap-5.3.1/bootstrap.bundle.min.js"></script><link href="../deps/font-awesome-6.5.2/css/all.min.css" rel="stylesheet"><link href="../deps/font-awesome-6.5.2/css/v4-shims.min.css" rel="stylesheet"><script src="../deps/headroom-0.11.0/headroom.min.js"></script><script src="../deps/headroom-0.11.0/jQuery.headroom.min.js"></script><script src="../deps/bootstrap-toc-1.0.1/bootstrap-toc.min.js"></script><script src="../deps/clipboard.js-2.0.11/clipboard.min.js"></script><script src="../deps/search-1.0.0/autocomplete.jquery.min.js"></script><script src="../deps/search-1.0.0/fuse.min.js"></script><script src="../deps/search-1.0.0/mark.min.js"></script><!-- pkgdown --><script src="../pkgdown.js"></script><meta property="og:title" content="Extract the data with the computed weights — collect_weights"><meta name="description" content="Extract the data with the computed weights"><meta property="og:description" content="Extract the data with the computed weights"></head><body>
+<!-- Generated by pkgdown: do not edit by hand --><html lang="en-US"><head><meta http-equiv="Content-Type" content="text/html; charset=UTF-8"><meta charset="utf-8"><meta http-equiv="X-UA-Compatible" content="IE=edge"><meta name="viewport" content="width=device-width, initial-scale=1, shrink-to-fit=no"><title>Extract the data with the computed weights — collect_weights • weightflow</title><script src="../deps/jquery-3.6.0/jquery-3.6.0.min.js"></script><meta name="viewport" content="width=device-width, initial-scale=1, shrink-to-fit=no"><link href="../deps/bootstrap-5.3.8/bootstrap.min.css" rel="stylesheet"><script src="../deps/bootstrap-5.3.8/bootstrap.bundle.min.js"></script><link href="../deps/font-awesome-6.5.2/css/all.min.css" rel="stylesheet"><link href="../deps/font-awesome-6.5.2/css/v4-shims.min.css" rel="stylesheet"><script src="../deps/headroom-0.11.0/headroom.min.js"></script><script src="../deps/headroom-0.11.0/jQuery.headroom.min.js"></script><script src="../deps/bootstrap-toc-1.0.1/bootstrap-toc.min.js"></script><script src="../deps/clipboard.js-2.0.11/clipboard.min.js"></script><script src="../deps/search-1.0.0/autocomplete.jquery.min.js"></script><script src="../deps/search-1.0.0/fuse.min.js"></script><script src="../deps/search-1.0.0/mark.min.js"></script><!-- pkgdown --><script src="../pkgdown.js"></script><meta property="og:title" content="Extract the data with the computed weights — collect_weights"><meta name="description" content="Extract the data with the computed weights"><meta property="og:description" content="Extract the data with the computed weights"></head><body>
     <a href="#main" class="visually-hidden-focusable">Skip to contents</a>
 
 
@@ -33,7 +33,7 @@
   <main id="main" class="col-md-9"><div class="page-header">
 
       <h1>Extract the data with the computed weights</h1>
-      <small class="dont-index">Source: <a href="https://github.com/jpferreira33/weightflow/blob/HEAD/R/prep.R" class="external-link"><code>R/prep.R</code></a></small>
+      <small class="dont-index">Source: <a href="https://github.com/jpferreira33/weightflow/blob/master/R/prep.R" class="external-link"><code>R/prep.R</code></a></small>
       <div class="d-none name"><code>collect_weights.Rd</code></div>
     </div>
 

diff --git a/reference/design_effect.html b/reference/design_effect.html
@@ -1,5 +1,5 @@
 <!DOCTYPE html>
-<!-- Generated by pkgdown: do not edit by hand --><html lang="en"><head><meta http-equiv="Content-Type" content="text/html; charset=UTF-8"><meta charset="utf-8"><meta http-equiv="X-UA-Compatible" content="IE=edge"><meta name="viewport" content="width=device-width, initial-scale=1, shrink-to-fit=no"><title>Kish design effect from unequal weighting — design_effect • weightflow</title><script src="../deps/jquery-3.6.0/jquery-3.6.0.min.js"></script><meta name="viewport" content="width=device-width, initial-scale=1, shrink-to-fit=no"><link href="../deps/bootstrap-5.3.1/bootstrap.min.css" rel="stylesheet"><script src="../deps/bootstrap-5.3.1/bootstrap.bundle.min.js"></script><link href="../deps/font-awesome-6.5.2/css/all.min.css" rel="stylesheet"><link href="../deps/font-awesome-6.5.2/css/v4-shims.min.css" rel="stylesheet"><script src="../deps/headroom-0.11.0/headroom.min.js"></script><script src="../deps/headroom-0.11.0/jQuery.headroom.min.js"></script><script src="../deps/bootstrap-toc-1.0.1/bootstrap-toc.min.js"></script><script src="../deps/clipboard.js-2.0.11/clipboard.min.js"></script><script src="../deps/search-1.0.0/autocomplete.jquery.min.js"></script><script src="../deps/search-1.0.0/fuse.min.js"></script><script src="../deps/search-1.0.0/mark.min.js"></script><!-- pkgdown --><script src="../pkgdown.js"></script><meta property="og:title" content="Kish design effect from unequal weighting — design_effect"><meta name="description" content="deff = 1 + CV^2(w) = m * sum(w^2) / (sum(w))^2, over the active weights.
+<!-- Generated by pkgdown: do not edit by hand --><html lang="en-US"><head><meta http-equiv="Content-Type" content="text/html; charset=UTF-8"><meta charset="utf-8"><meta http-equiv="X-UA-Compatible" content="IE=edge"><meta name="viewport" content="width=device-width, initial-scale=1, shrink-to-fit=no"><title>Kish design effect from unequal weighting — design_effect • weightflow</title><script src="../deps/jquery-3.6.0/jquery-3.6.0.min.js"></script><meta name="viewport" content="width=device-width, initial-scale=1, shrink-to-fit=no"><link href="../deps/bootstrap-5.3.8/bootstrap.min.css" rel="stylesheet"><script src="../deps/bootstrap-5.3.8/bootstrap.bundle.min.js"></script><link href="../deps/font-awesome-6.5.2/css/all.min.css" rel="stylesheet"><link href="../deps/font-awesome-6.5.2/css/v4-shims.min.css" rel="stylesheet"><script src="../deps/headroom-0.11.0/headroom.min.js"></script><script src="../deps/headroom-0.11.0/jQuery.headroom.min.js"></script><script src="../deps/bootstrap-toc-1.0.1/bootstrap-toc.min.js"></script><script src="../deps/clipboard.js-2.0.11/clipboard.min.js"></script><script src="../deps/search-1.0.0/autocomplete.jquery.min.js"></script><script src="../deps/search-1.0.0/fuse.min.js"></script><script src="../deps/search-1.0.0/mark.min.js"></script><!-- pkgdown --><script src="../pkgdown.js"></script><meta property="og:title" content="Kish design effect from unequal weighting — design_effect"><meta name="description" content="deff = 1 + CV^2(w) = m * sum(w^2) / (sum(w))^2, over the active weights.
 The effective sample size is n_eff = m / deff."><meta property="og:description" content="deff = 1 + CV^2(w) = m * sum(w^2) / (sum(w))^2, over the active weights.
 The effective sample size is n_eff = m / deff."></head><body>
     <a href="#main" class="visually-hidden-focusable">Skip to contents</a>
@@ -35,7 +35,7 @@ The effective sample size is n_eff = m / deff."></head><body>
   <main id="main" class="col-md-9"><div class="page-header">
 
       <h1>Kish design effect from unequal weighting</h1>
-      <small class="dont-index">Source: <a href="https://github.com/jpferreira33/weightflow/blob/HEAD/R/spec.R" class="external-link"><code>R/spec.R</code></a></small>
+      <small class="dont-index">Source: <a href="https://github.com/jpferreira33/weightflow/blob/master/R/spec.R" class="external-link"><code>R/spec.R</code></a></small>
       <div class="d-none name"><code>design_effect.Rd</code></div>
     </div>
 